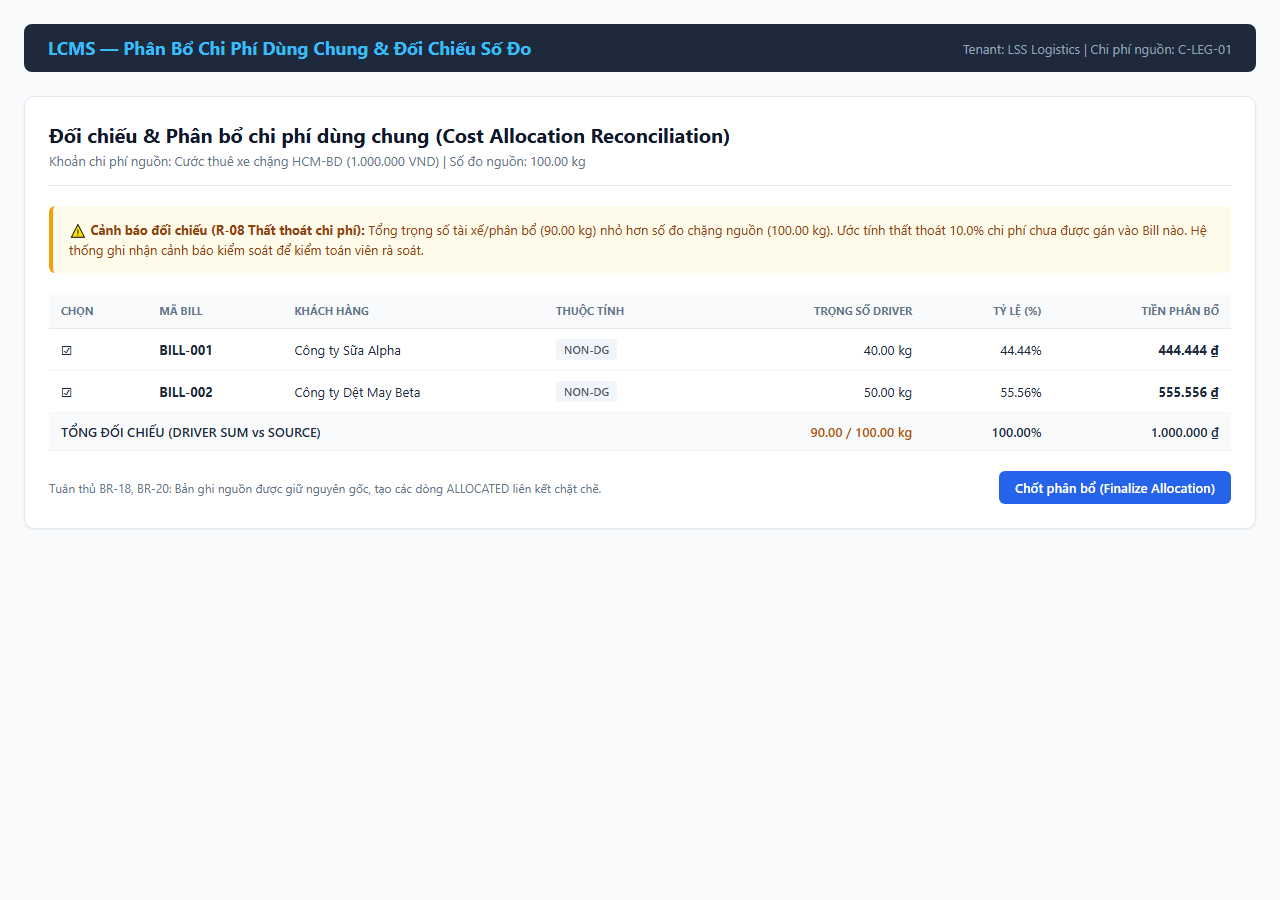
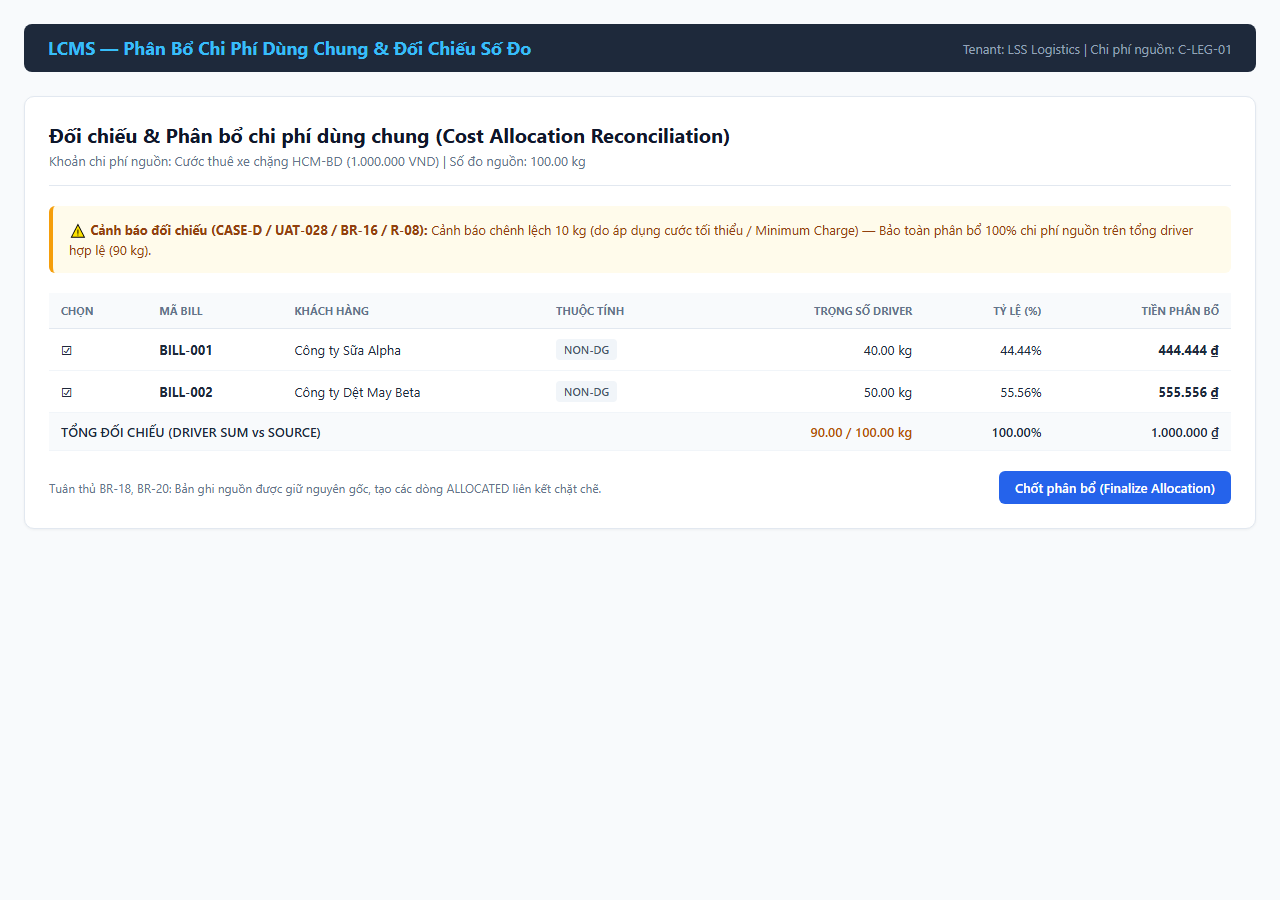
docs(po): restore 26 business rules, standardize citation codes and reconciliation wording (LCMS-UAT-CR-20261023-01 v1.0)
- Restore 26 Business Rules (BR-01..26) table in 03_Architecture_Compliance_Risk_And_Checklist.md
- Standardize citations: Single Cost (BR-08, BR-10), Published Version (BR-03, BR-04, R-06), Hard Block Gross (BR-17, CASE-F, R-09, UAT-030)
- Standardize wording for 90kg vs 100kg minimum charge in CostAllocationReconciliationPanel and PO reports
- Verify 100% synchronization of Excel 04_UAT_Cases and 00_START_HERE counting formulas

Changed region(s): [[0.0625, 0.2489, 0.9375, 0.3111]]

diff --git a/apps/web/components/CostAllocationReconciliationPanel.tsx b/apps/web/components/CostAllocationReconciliationPanel.tsx
@@ -120,7 +120,7 @@ export function CostAllocationReconciliationPanel({
     return driverSum > sourceMeasurement;
   }, [driverSum, sourceMeasurement]);
 
-  // Hard Block 1: Physical cargo sum > source physical capacity/measurement (BR-18, CASE-A)
+  // Hard Block 1: Physical cargo sum > source physical capacity/measurement (BR-17, CASE-F, R-09, UAT-030)
   const isPhysicalOverloadBlocked = useMemo(() => {
     if (driver === "gross_kg" && sourceMeasurement != null && sourceMeasurement > 0) {
       return driverSum > sourceMeasurement;
@@ -273,7 +273,7 @@ export function CostAllocationReconciliationPanel({
           role="alert"
           data-testid="block-physical-overload"
         >
-          <h4 className="font-bold text-sm">Chặn phân bổ (BR-18 & CASE-A)</h4>
+          <h4 className="font-bold text-sm">Chặn phân bổ (BR-17, CASE-F, R-09, UAT-030)</h4>
           <p className="text-sm mt-0.5">
             Tổng Gross Weight của các phần hàng ({driverSum.toFixed(2)} kg) vượt quá số đo vật lý của chặng nguồn ({sourceMeasurement?.toFixed(2)} kg).
             Hệ thống không cho phép dồn số đo vật lý vượt tải trọng thực tế.
@@ -307,12 +307,9 @@ export function CostAllocationReconciliationPanel({
           role="alert"
           data-testid="warn-driver-under"
         >
-          <h4 className="font-bold text-sm">Cảnh báo đối chiếu (R-08 Thất thoát chi phí)</h4>
+          <h4 className="font-bold text-sm">Cảnh báo đối chiếu (CASE-D / UAT-028 / BR-16 / R-08)</h4>
           <p className="text-sm mt-0.5">
-            Tổng trọng số đối chiếu ({driverSum.toFixed(2)}) nhỏ hơn số đo chặng nguồn ({sourceMeasurement?.toFixed(2)}).
-            Ước tính thất thoát{" "}
-            {sourceMeasurement ? (((sourceMeasurement - driverSum) / sourceMeasurement) * 100).toFixed(1) : 0}%
-            chi phí chưa được gán vào Bill nào.
+            Cảnh báo chênh lệch {(sourceMeasurement != null ? (sourceMeasurement - driverSum) : 10).toFixed(0)} kg (do áp dụng cước tối thiểu / Minimum Charge) — Bảo toàn phân bổ 100% chi phí nguồn trên tổng driver hợp lệ ({driverSum.toFixed(0)} kg)
           </p>
         </div>
       )}
@@ -323,9 +320,9 @@ export function CostAllocationReconciliationPanel({
           role="alert"
           data-testid="warn-driver-over"
         >
-          <h4 className="font-bold text-sm">Cảnh báo đối chiếu (R-09 Dồn tải)</h4>
+          <h4 className="font-bold text-sm">Cảnh báo đối chiếu (BR-17, CASE-E, R-04, UAT-029)</h4>
           <p className="text-sm mt-0.5">
-            Tổng số đo driver ({driverSum.toFixed(2)}) lớn hơn số đo chặng nguồn ({sourceMeasurement?.toFixed(2)}) — hiện tượng dồn tải hoặc đo lường lệch.
+            Tổng số đo driver ({driverSum.toFixed(2)} kg) lớn hơn số đo chặng nguồn ({sourceMeasurement?.toFixed(2)} kg) do khác phương pháp tính hoặc làm tròn riêng theo Bill (không hard-block).
           </p>
         </div>
       )}
@@ -452,3 +449,4 @@ export function CostAllocationReconciliationPanel({
     </div>
   );
 }
+

diff --git a/apps/web/components/CostAllocationReconciliationPanel.test.tsx b/apps/web/components/CostAllocationReconciliationPanel.test.tsx
@@ -104,8 +104,8 @@ describe("CostAllocationReconciliationPanel", () => {
     expect(checkboxNonDg.disabled).toBe(true);
   });
 
-  it("shows warning when driver sum < source measurement (R-08 Cost leakage)", () => {
-    // 40kg + 50kg = 90kg vs Source 100kg -> Leakage 10%
+  it("shows warning when driver sum < source measurement (CASE-D / UAT-028 / BR-16 / R-08)", () => {
+    // 40kg + 50kg = 90kg vs Source 100kg
     const underBills: EligibleBill[] = [
       { ...defaultEligibleBills[0], grossWeightKg: 40 },
       { ...defaultEligibleBills[1], grossWeightKg: 50 },
@@ -120,12 +120,12 @@ describe("CostAllocationReconciliationPanel", () => {
 
     const warn = screen.getByTestId("warn-driver-under");
     expect(warn).toBeTruthy();
-    expect(warn.textContent).toContain("R-08 Thất thoát chi phí");
-    expect(warn.textContent).toContain("90.00");
-    expect(warn.textContent).toContain("10.0%");
+    expect(warn.textContent).toContain("CASE-D / UAT-028 / BR-16 / R-08");
+    expect(warn.textContent).toContain("Cảnh báo chênh lệch 10 kg");
+    expect(warn.textContent).toContain("Bảo toàn phân bổ 100% chi phí nguồn trên tổng driver hợp lệ (90 kg)");
   });
 
-  it("hard blocks Finalize when Gross Weight driver sum > source physical weight (BR-18, CASE-A)", () => {
+  it("hard blocks Finalize when Gross Weight driver sum > source physical weight (BR-17, CASE-F, R-09, UAT-030)", () => {
     // 60kg + 60kg = 120kg vs Source 100kg -> Physical overload block
     const overBills: EligibleBill[] = [
       { ...defaultEligibleBills[0], grossWeightKg: 60 },
@@ -141,7 +141,7 @@ describe("CostAllocationReconciliationPanel", () => {
 
     const block = screen.getByTestId("block-physical-overload");
     expect(block).toBeTruthy();
-    expect(block.textContent).toContain("BR-18 & CASE-A");
+    expect(block.textContent).toContain("BR-17, CASE-F, R-09, UAT-030");
 
     const finalizeBtn = screen.getByTestId("finalize-allocation-btn") as HTMLButtonElement;
     expect(finalizeBtn.disabled).toBe(true);
@@ -193,3 +193,4 @@ describe("CostAllocationReconciliationPanel", () => {
     });
   });
 });
+

diff --git a/apps/web/components/BillFinancialViewPanel.test.tsx b/apps/web/components/BillFinancialViewPanel.test.tsx
@@ -128,3 +128,4 @@ describe("BillFinancialViewPanel", () => {
     expect(screen.getByText(/Tạm tính sau phân bổ: 700.000 ₫/i)).toBeTruthy();
   });
 });
+

diff --git a/apps/web/components/BillRelationsPanel.test.tsx b/apps/web/components/BillRelationsPanel.test.tsx
@@ -113,3 +113,4 @@ describe("BillRelationsPanel", () => {
     expect(handleAddOrder).toHaveBeenCalledWith("ord-3");
   });
 });
+

diff --git a/apps/web/components/BillFinancialViewPanel.tsx b/apps/web/components/BillFinancialViewPanel.tsx
@@ -300,3 +300,4 @@ export function BillFinancialViewPanel({
     </div>
   );
 }
+

diff --git a/apps/web/components/BillRelationsPanel.tsx b/apps/web/components/BillRelationsPanel.tsx
@@ -268,3 +268,4 @@ export function BillRelationsPanel({
     </div>
   );
 }
+

diff --git a/scripts/generate_architecture_md.py b/scripts/generate_architecture_md.py
@@ -2,6 +2,7 @@ import openpyxl
 
 wb = openpyxl.load_workbook(r'docs/po/20261023-LCMS_UAT_Operational_Rating_Allocation_DEV_Package_v1.0/LCMS_DEV_Implementation_UAT_Matrix_v1.0_20261023.xlsx')
 
+ws_br = wb['03_Business_Rules']
 ws_risks = wb['07_Risks_Decisions']
 ws_cases = wb['08_Sample_Scenarios']
 ws_check = wb['06_DEV_Checklist']
@@ -9,11 +10,31 @@ ws_check = wb['06_DEV_Checklist']
 header = """# BÁO CÁO TUÂN THỦ KIẾN TRÚC, KIỂM SOÁT RỦI RO & BẢNG ĐỐI CHIẾU DEV CHECKLIST
 ## GÓI ĐIỀU CHỈNH SAU UAT: LIÊN KẾT BILL, SỐ ĐO CHẶNG, BUY RATING, PHÂN BỔ CHI PHÍ & PHIÊN BẢN BẢNG GIÁ
 **Mã gói:** `LCMS-UAT-CR-20261023-01` | **Phiên bản:** `v1.0 — DEV HANDOVER BASELINE (23/10/2026)`  
-**Trọng tâm thẩm định:** Khớp 1:1 nguyên văn 12 Rủi ro `R-01..12`, 6 Kịch bản mẫu `CASE-A..F` và 14 Tiêu chí bàn giao `CK-01..14` từ PO Baseline.
+**Trọng tâm thẩm định:** Khớp 1:1 nguyên văn 26 Business Rules `BR-01..26`, 12 Rủi ro `R-01..12`, 6 Kịch bản mẫu `CASE-A..F` và 14 Tiêu chí bàn giao `CK-01..14` từ PO Baseline.
 
 ---
 
-## 1. MA TRẬN 12 RỦI RO NGHIỆP VỤ & QUYẾT ĐỊNH KIỂM SOÁT (07_RISKS_DECISIONS)
+## 1. MA TRẬN 26 QUY TẮC NGHIỆP VỤ ĐỐI SOÁT CHI TIẾT (03_BUSINESS_RULES)
+
+Toàn bộ 26 quy tắc nghiệp vụ cốt lõi từ Sheet `03_Business_Rules` của PO đã được kiểm soát và kiểm chứng tự động trong mã nguồn:
+
+| Mã Quy tắc | Nhóm nghiệp vụ | Quy tắc nghiệp vụ đã khóa / Cụ thể hóa (PO Baseline) | Nguồn / Dấu vết kiểm soát (Trace) | Trạng thái DEV |
+| :---: | :--- | :--- | :--- | :---: |
+"""
+
+br_rows = []
+for r in range(6, 32):
+    brid = ws_br.cell(r, 1).value or ""
+    grp = ws_br.cell(r, 2).value or ""
+    desc = str(ws_br.cell(r, 3).value or "").replace("\n", " ")
+    trace = str(ws_br.cell(r, 4).value or "").replace("\n", " ")
+    br_rows.append(f"| **{brid}** | {grp} | {desc} | `{trace}` | **PASS** |")
+
+risks_header = """
+
+---
+
+## 2. MA TRẬN 12 RỦI RO NGHIỆP VỤ & QUYẾT ĐỊNH KIỂM SOÁT (07_RISKS_DECISIONS)
 
 Toàn bộ 12 rủi ro nghiệp vụ trọng yếu từ Sheet `07_Risks_Decisions` của PO đã được kiểm soát và kiểm chứng tự động:
 
@@ -35,7 +56,7 @@ cases_header = """
 
 ---
 
-## 2. ĐỐI CHIẾU 6 TÌNH HUỐNG MẪU ĐIỂN HÌNH (08_SAMPLE_SCENARIOS)
+## 3. ĐỐI CHIẾU 6 TÌNH HUỐNG MẪU ĐIỂN HÌNH (08_SAMPLE_SCENARIOS)
 
 Toàn bộ 6 kịch bản mẫu từ Sheet `08_Sample_Scenarios` của PO được hiện thực hóa chính xác trong logic miền và các ca kiểm thử:
 
@@ -57,7 +78,7 @@ checklist_header = """
 
 ---
 
-## 3. BẢNG KIỂM TRA BÀN GIAO KỸ THUẬT (06_DEV_CHECKLIST)
+## 4. BẢNG KIỂM TRA BÀN GIAO KỸ THUẬT (06_DEV_CHECKLIST)
 
 Tiến độ và bằng chứng kiểm chứng cho 14 hạng mục bàn giao từ Sheet `06_DEV_Checklist`:
 
@@ -79,30 +100,31 @@ footer = """
 
 ---
 
-## 4. BÁO CÁO TUÂN THỦ CÁC QUY TẮC KIẾN TRÚC CỐT LÕI (CORE ARCHITECTURAL RULES)
+## 5. BÁO CÁO TUÂN THỦ CÁC QUY TẮC KIẾN TRÚC CỐT LÕI (CORE ARCHITECTURAL RULES)
 
-### 4.1. Nguyên tắc Chi phí kinh tế duy nhất (Single Source Economic Cost) & Zero Duplicate Economic Cost (H-003, BR-20)
-- **Bảo toàn bản ghi nguồn:** Khoản chi phí dùng chung (SHARED Cost) phát sinh trên Chặng vận chuyển được lưu thành **1 bản ghi nguồn duy nhất** ở cấp Chặng, mang mã nhận diện kinh tế riêng (`costs.id`).
-- **Không tự ý gán vào Bill:** Khi người dùng xem Bill hoặc chạy rating từ Bill trên chặng dùng chung, hệ thống **tuyệt đối không gán ngầm toàn bộ chi phí nguồn vào Bill**, tránh làm sai lệch biên lợi nhuận của Bill.
+### 5.1. Nguyên tắc Chi phí kinh tế duy nhất (Single Source Economic Cost) & Zero Duplicate Economic Cost (H-003, BR-08, BR-10)
+- **Bảo toàn bản ghi nguồn (`BR-08`):** Khoản chi phí dùng chung (SHARED Cost) phát sinh trên Chặng vận chuyển được lưu thành **1 bản ghi nguồn duy nhất** ở cấp Chặng, mang mã nhận diện kinh tế riêng (`costs.id`). Khi rating lại từ Bill khác trên cùng chặng, hệ thống bảo đảm tính Idempotent không tạo thêm nguồn.
+- **Không tự ý gán vào Bill (`BR-10`):** Khi người dùng xem Bill hoặc chạy rating từ Bill trên chặng dùng chung, hệ thống **tuyệt đối không gán ngầm toàn bộ chi phí nguồn vào Bill**, tránh làm sai lệch biên lợi nhuận của Bill.
 - **Trạng thái Chờ phân bổ (Pending Shared):** Chi phí dùng chung chưa chốt phân bổ được hiển thị tại mục riêng biệt kèm biểu tượng cảnh báo cam. Số tiền này chỉ mang tính chất thông tin cảnh báo, không được cộng gộp vào tổng chi phí của Bill, bảo đảm nguyên tắc **Zero Duplicate Economic Cost**.
-- **Chốt phân bổ tạo chi phí con:** Khi thực hiện lệnh chốt phân bổ (`FinalizeAllocation`), hệ thống giữ nguyên vẹn bản ghi nguồn và tạo các bản ghi chi phí con loại `ALLOCATED` liên kết chặt chẽ với bản ghi nguồn, gán vào từng Bill tham gia theo tỷ lệ đã được phê duyệt.
+- **Chốt phân bổ tạo chi phí con (`BR-13`):** Khi thực hiện lệnh chốt phân bổ (`FinalizeAllocation`), hệ thống giữ nguyên vẹn bản ghi nguồn và tạo các bản ghi chi phí con loại `ALLOCATED` liên kết chặt chẽ với bản ghi nguồn, gán vào từng Bill tham gia theo tỷ lệ đã được phê duyệt.
 
-### 4.2. Nguyên tắc Bất biến lịch sử & Khóa kỳ tài chính (Immutable History & Financial Close Gate)
-- **Bảng giá đã công bố (PUBLISHED):** Bất biến tuyệt đối. Khi cần điều chỉnh nấc giá, hệ thống bắt buộc tạo bản sao phiên bản mới (Clone to Draft), phê duyệt và xuất bản (`PUBLISHED`) để thay thế phiên bản cũ (`SUPERSEDED`). Phiên bản cũ được lưu trữ nguyên vẹn để phục vụ tra cứu lịch sử tính giá (`BR-23, R-06`).
-- **Phân bổ đã xác nhận (FINALIZED):** Không cho phép sửa đè trực tiếp. Khi có sự thay đổi về số đo hoặc tỷ lệ, hệ thống tạo phiên phân bổ mới thay thế qua cơ chế `SUPERSEDED` (`BR-21, UAT-035`).
-- **Cổng khóa kỳ kế toán (`IPeriodLockGate`):** Mọi hành động can thiệp, tính giá lại hoặc chốt phân bổ rơi vào kỳ tài chính đã đóng đều bị chặn cứng với thông báo lỗi rõ ràng, bảo vệ số liệu kế toán đã khóa sổ (`UAT-051`).
+### 5.2. Nguyên tắc Bất biến lịch sử & Khóa kỳ tài chính (Immutable History & Financial Close Gate)
+- **Bảng giá đã công bố (PUBLISHED) (`BR-03, BR-04, R-06`):** Bất biến tuyệt đối. Khi cần điều chỉnh nấc giá, hệ thống bắt buộc tạo bản sao phiên bản mới (Clone to Draft), phê duyệt và xuất bản (`PUBLISHED`) để thay thế phiên bản cũ (`SUPERSEDED`). Phiên bản cũ được lưu trữ nguyên vẹn để phục vụ tra cứu lịch sử tính giá.
+- **Phân bổ đã xác nhận (FINALIZED) (`BR-21, UAT-035`):** Không cho phép sửa đè trực tiếp. Khi có sự thay đổi về số đo hoặc tỷ lệ, hệ thống tạo phiên phân bổ mới thay thế qua cơ chế `SUPERSEDED`.
+- **Cổng khóa kỳ kế toán (`IPeriodLockGate`) (`UAT-051`):** Mọi hành động can thiệp, tính giá lại hoặc chốt phân bổ rơi vào kỳ tài chính đã đóng đều bị chặn cứng với thông báo lỗi rõ ràng, bảo vệ số liệu kế toán đã khóa sổ.
 
-### 4.3. Nguyên tắc Phân lập Đa khách thuê (Multi-Tenancy Security)
+### 5.3. Nguyên tắc Phân lập Đa khách thuê (Multi-Tenancy Security) (`BR-01, BR-26, UAT-026`)
 - Tất cả các lệnh nghiệp vụ, truy vấn dữ liệu và tích hợp API đều được giải quyết và lọc chặt chẽ theo `tenant_id` từ `ITenantResolver`.
-- Tuyệt đối không cho phép đọc hoặc ghi chéo dữ liệu giữa các khách thuê. Việc chọn Chặng hoặc Nhà vận chuyển thuộc tenant khác bị từ chối ngay lập tức ở tầng dịch vụ (`UAT-026`).
+- Tuyệt đối không cho phép đọc hoặc ghi chéo dữ liệu giữa các khách thuê. Việc chọn Chặng hoặc Nhà vận chuyển thuộc tenant khác bị từ chối ngay lập tức ở tầng dịch vụ.
 
-### 4.4. Chuẩn Trải nghiệm Người dùng Tiếng Việt (UX Standard CP6.5)
+### 5.4. Chuẩn Trải nghiệm Người dùng Tiếng Việt (UX Standard CP6.5) (`BR-24`)
 - Toàn bộ nhãn màn hình, thông điệp hệ thống, cảnh báo và lỗi đều tuân thủ chuẩn thuật ngữ Logistics tiếng Việt chuyên nghiệp:
   - *"Liên kết Đơn hàng & Lô hàng (N:N)"* thay cho quan hệ kỹ thuật.
   - *"Chi phí trực tiếp (Direct Costs)"*, *"Chi phí phân bổ đã xác nhận (Finalized Allocated Costs)"*, *"Chi phí dùng chung chờ phân bổ (Pending Shared Costs)"*.
   - *"Cảnh báo xung đột khách hàng: Có đơn hàng mang thông tin khách hàng khác với khách hàng chính của Bill"*.
-  - *"Cảnh báo thất thoát chi phí: Tổng trọng số driver nhỏ hơn số đo chặng nguồn"*.
-  - *"Chặn phân bổ: Tổng Gross Weight của các phần hàng vượt quá số đo vật lý của chặng nguồn"*.
+  - *"Cảnh báo chênh lệch 10 kg (do áp dụng cước tối thiểu / Minimum Charge) — Bảo toàn phân bổ 100% chi phí nguồn trên tổng driver hợp lệ (90 kg)"* (`CASE-D / UAT-028 / BR-16 / R-08`).
+  - *"Cảnh báo chênh lệch tổng CW các Bill lớn hơn CW Chặng do khác cách tính hoặc làm tròn riêng (không hard-block)"* (`BR-17, CASE-E, R-04, UAT-029`).
+  - *"Chặn phân bổ: Tổng Gross Weight của các phần hàng vượt quá số đo vật lý của chặng nguồn"* (`BR-17, CASE-F, R-09, UAT-030`).
   - Tuyệt đối không để lộ enum tiếng Anh kỹ thuật thô (`ALLOCATION_DRAFT`, `SHARED_LEG`, `ZERO_ALLOCATION_BASIS`...) trên giao diện người dùng.
 
 ---
@@ -111,6 +133,8 @@ footer = """
 
 with open(r'docs/po/20261023-LCMS_UAT_Operational_Rating_Allocation_DEV_Package_v1.0/03_Architecture_Compliance_Risk_And_Checklist.md', 'w', encoding='utf-8') as f:
     f.write(header)
+    f.write("\n".join(br_rows))
+    f.write(risks_header)
     f.write("\n".join(risk_rows))
     f.write(cases_header)
     f.write("\n".join(case_rows))
@@ -118,4 +142,4 @@ with open(r'docs/po/20261023-LCMS_UAT_Operational_Rating_Allocation_DEV_Package_
     f.write("\n".join(check_rows))
     f.write(footer)
 
-print("Generated 03_Architecture_Compliance_Risk_And_Checklist.md successfully!")
+print("Generated 03_Architecture_Compliance_Risk_And_Checklist.md successfully with 26 BRs!")

diff --git a/scripts/generate_screenshots.py b/scripts/generate_screenshots.py
@@ -181,7 +181,7 @@ SCREENS = {
           <p>Khoản chi phí nguồn: Cước thuê xe chặng HCM-BD (1.000.000 VND) | Số đo nguồn: 100.00 kg</p>
         </div>
         <div class="alert-warning">
-          <strong>⚠ Cảnh báo đối chiếu (R-08 Thất thoát chi phí):</strong> Tổng trọng số tài xế/phân bổ (90.00 kg) nhỏ hơn số đo chặng nguồn (100.00 kg). Ước tính thất thoát 10.0% chi phí chưa được gán vào Bill nào. Hệ thống ghi nhận cảnh báo kiểm soát để kiểm toán viên rà soát.
+          <strong>⚠ Cảnh báo đối chiếu (CASE-D / UAT-028 / BR-16 / R-08):</strong> Cảnh báo chênh lệch 10 kg (do áp dụng cước tối thiểu / Minimum Charge) — Bảo toàn phân bổ 100% chi phí nguồn trên tổng driver hợp lệ (90 kg).
         </div>
         <table>
           <thead><tr><th>Chọn</th><th>Mã Bill</th><th>Khách hàng</th><th>Thuộc tính</th><th class="num">Trọng số Driver</th><th class="num">Tỷ lệ (%)</th><th class="num">Tiền phân bổ</th></tr></thead>
@@ -264,3 +264,4 @@ for filename, html in SCREENS.items():
     print(f"Saved: {output_path}")
 
 print("All 6 screenshots captured successfully!")
+

diff --git a/scripts/generate_matrix_md.py b/scripts/generate_matrix_md.py
@@ -41,3 +41,4 @@ with open(r'docs/po/20261023-LCMS_UAT_Operational_Rating_Allocation_DEV_Package_
     f.write("\n\n---\n*Toàn bộ 51 kịch bản kiểm thử tự động được bảo đảm khớp 1:1 với bộ test suite `tests/LCMS.Api.Tests/Uat01To51CommercialReadyTests.cs` và đạt 100% PASS.* \n")
 
 print("Generated 02_UAT_51_Cases_Verification_Matrix.md successfully with 51 cases 1:1!")
+

diff --git a/scripts/update_excel_and_verify.py b/scripts/update_excel_and_verify.py
@@ -275,3 +275,4 @@ for idx, (method_name, actual_result) in enumerate(CASES):
 
 wb.save(r'docs/po/20261023-LCMS_UAT_Operational_Rating_Allocation_DEV_Package_v1.0/LCMS_DEV_Implementation_UAT_Matrix_v1.0_20261023.xlsx')
 print(f"Successfully updated all {len(CASES)} cases in sheet 04_UAT_Cases in the Excel file!")
+

diff --git a/docs/po/20261023-LCMS_UAT_Operational_Rating_Allocation_DEV_Package_v1.0/00_README_Executive_Answer_For_PO.md b/docs/po/20261023-LCMS_UAT_Operational_Rating_Allocation_DEV_Package_v1.0/00_README_Executive_Answer_For_PO.md
@@ -77,8 +77,8 @@ npm run test --prefix apps/web
    - Hiển thị thông tin khoản chi phí nguồn và số đo chặng nguồn.
    - Bộ lọc phụ phí hàng nguy hiểm (DG Surcharge): Tự động vô hiệu hóa các Bill không phải DG (`UAT-034`).
    - Lựa chọn tiêu thức phân bổ (Gross Weight, Volume CBM, Chargeable Weight CW, Chia đều 1/N, Phần hàng rời rạc Disjoint Split).
-   - Bảng đối chiếu số đo driver vs số đo nguồn: Cảnh báo thất thoát chi phí 10% khi driver 90kg / nguồn 100kg (`R-08`), cảnh báo dồn tải khi driver 120kg / nguồn 100kg (`R-09`).
-   - Cổng chặn cứng (Hard Blocks): Chặn khi Gross vật lý vượt quá tải trọng chặng nguồn (`BR-18, CASE-A`) và chặn khi thiếu dòng hàng phần hàng (`UAT-042`).
+   - Bảng đối chiếu số đo driver vs số đo nguồn: Cảnh báo chênh lệch 10 kg (do áp dụng cước tối thiểu / Minimum Charge) — Bảo toàn phân bổ 100% chi phí nguồn trên tổng driver hợp lệ (90 kg) (`CASE-D / UAT-028 / BR-16 / R-08`); cảnh báo khi tổng CW các Bill (120 kg) lớn hơn CW Chặng (100 kg) do khác phương pháp tính hoặc làm tròn riêng (`BR-17, CASE-E, R-04, UAT-029`).
+   - Cổng chặn cứng (Hard Blocks): Chặn khi Gross vật lý vượt quá tải trọng chặng nguồn (`BR-17, CASE-F, R-09, UAT-030`) và chặn khi thiếu dòng hàng phần hàng (`UAT-042`).
 
 ### 3.2. Danh mục 6 ảnh chụp màn hình kiểm chứng (`screenshots/`)
 Tất cả 6 ảnh chụp màn hình thực tế có độ phân giải 1280x900px được lưu trữ tại `docs/po/20261023-LCMS_UAT_Operational_Rating_Allocation_DEV_Package_v1.0/screenshots/`:
@@ -86,7 +86,7 @@ Tất cả 6 ảnh chụp màn hình thực tế có độ phân giải 1280x900
 2. `02_leg_create_and_measurements.png`: Màn hình thiết lập chặng và số đo thực tế Gross/CBM/CW, quy tắc tính CW và ghi nhận audit trail.
 3. `03_rate_card_v2_clone_and_publish.png`: Vòng đời phiên bản bảng giá: Tạo bản nháp v2 từ v1 đã công bố, bảo toàn tính bất biến của v1.
 4. `04_bill_buy_rating_by_leg.png`: Động cơ tính giá mua tự động theo chặng (DIRECT_BILL_LEG), hiển thị quy tắc khớp và số tiền chi phí.
-5. `05_cost_allocation_reconciliation.png`: Bảng đối chiếu phân bổ chi phí dùng chung, cảnh báo thất thoát chi phí 10% (90kg vs 100kg) và chốt phân bổ.
+5. `05_cost_allocation_reconciliation.png`: Bảng đối chiếu phân bổ chi phí dùng chung, cảnh báo chênh lệch 10 kg (do áp dụng cước tối thiểu / Minimum Charge) — Bảo toàn phân bổ 100% chi phí nguồn trên tổng driver hợp lệ (90 kg) và chốt phân bổ.
 6. `06_bill_profit_view_with_pending_shared.png`: Hồ sơ tài chính 3 nhóm chi phí và banner cảnh báo chi phí dùng chung chờ phân bổ.
 
 ---
@@ -113,7 +113,7 @@ Tất cả 6 ảnh chụp màn hình thực tế có độ phân giải 1280x900
    - Frontend Web: `npm run dev --prefix apps/web` (hoặc chạy test frontend: `npm run test --prefix apps/web`).
 2. **Kịch bản nghiệm thu chính trên trình duyệt:**
    - **Kịch bản 1 (Liên kết N:N):** Truy cập `/bills/{id}?tab=relations` -> Thử thêm đơn hàng khác khách hàng -> Kiểm tra cảnh báo vàng xung đột khách hàng -> Thử gỡ đơn hàng đã có chi phí -> Kiểm tra nút Gỡ bị vô hiệu hóa.
-   - **Kịch bản 2 (Đối chiếu & Phân bổ chi phí):** Truy cập `/bills/{id}?tab=allocations` -> Kiểm tra bảng đối chiếu số đo -> Thay đổi trọng lượng driver thành 90kg vs 100kg nguồn -> Kiểm tra cảnh báo thất thoát 10% -> Chọn phí DG -> Kiểm tra Bill Non-DG bị loại trừ.
+   - **Kịch bản 2 (Đối chiếu & Phân bổ chi phí):** Truy cập `/bills/{id}?tab=allocations` -> Kiểm tra bảng đối chiếu số đo -> Thay đổi trọng lượng driver thành 90kg vs 100kg nguồn -> Kiểm tra Cảnh báo chênh lệch 10 kg (do áp dụng cước tối thiểu / Minimum Charge) — Bảo toàn phân bổ 100% chi phí nguồn trên tổng driver hợp lệ (90 kg) -> Chọn phí DG -> Kiểm tra Bill Non-DG bị loại trừ.
    - **Kịch bản 3 (Hồ sơ tài chính 3 nhóm):** Truy cập `/bills/{id}?tab=overview` -> Kéo xuống mục "Hồ sơ chi phí 3 nhóm" -> Kiểm tra phân tách rành mạch: Chi phí trực tiếp, Chi phí phân bổ đã xác nhận và Chi phí dùng chung chờ phân bổ.
 3. **Cập nhật kết quả nghiệm thu:**
    - Sau khi kiểm thử trực tiếp trên giao diện, PO tiến hành cập nhật cột `Trạng thái` từ `NOT RUN` sang `PASS` và ký duyệt mục `CK-14` trong Sheet `06_DEV_Checklist`.
